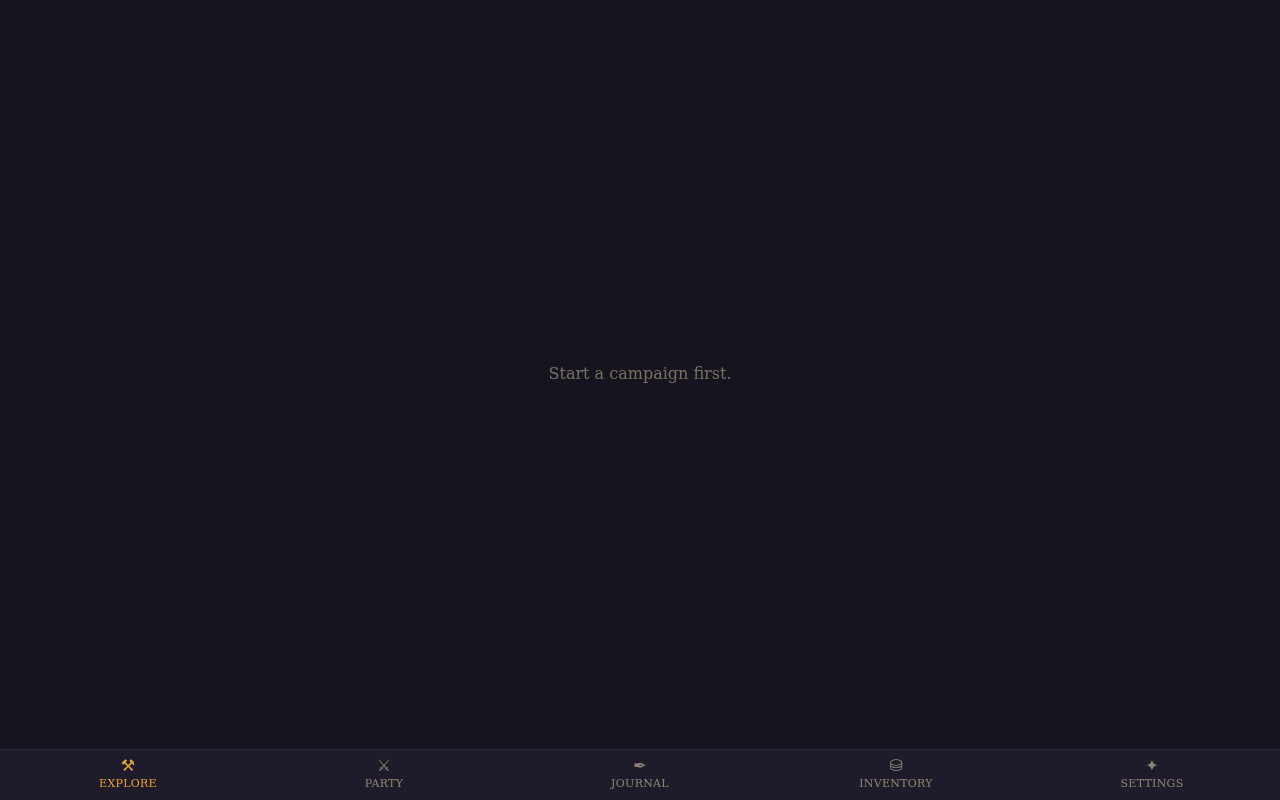
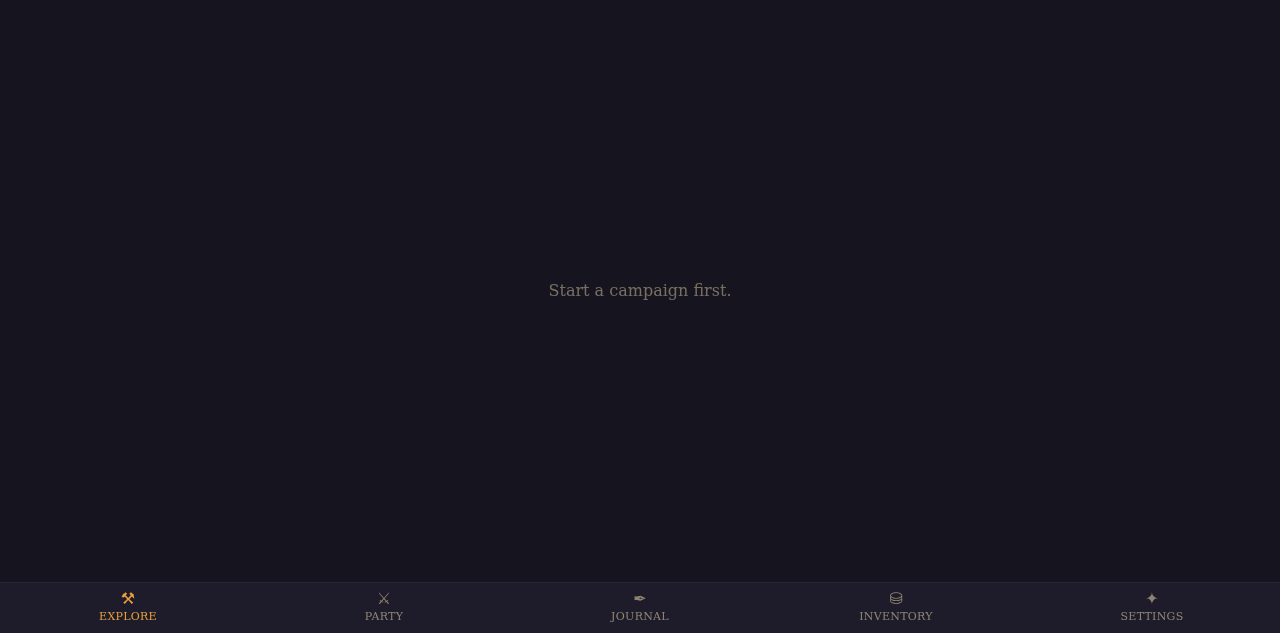
Graphics overhaul: textured dungeon map + class portraits
- Map: procedural SVG parchment/stone floor pattern (torch-lit current
  tile, dimmed corridors), carved two-layer walls, door leaf + swing-arc
  glyphs, content iconography on tiles (chest, monsters, fountain,
  temple, altar, statue, puzzle box), banner-token party marker
- Characters: class portrait icons on party cards and character sheets
- Icon art from game-icons.net (CC BY 3.0), attribution in
  src/assets/icons/ATTRIBUTION.md and README; map geometry/floors/doors
  are original procedural SVG (MIT). NOTE: rulebook art is copyrighted
  and is NOT used — licensed free assets instead, as the project's
  copyright policy requires
- 107 tests green; build clean; mobile+desktop screenshots refreshed

diff --git a/src/features/dungeon/DungeonScreen.tsx b/src/features/dungeon/DungeonScreen.tsx
@@ -12,6 +12,61 @@ import { ChoiceDialog } from './ChoiceDialog'
 import { DUNGEON_FEATURES, FEATURE_INFO } from '../../rulesets/expanded/features'
 import { QUEST_TABLE } from '../../rulesets/expanded/quests'
 
+/** Map iconography — game-icons.net fragments rendered inside the SVG. */
+import chestIcon from '../../assets/icons/chest.svg.frag?raw'
+import monstersIcon from '../../assets/icons/monsters.svg.frag?raw'
+import fountainIcon from '../../assets/icons/fountain.svg.frag?raw'
+import templeIcon from '../../assets/icons/temple.svg.frag?raw'
+import statueIcon from '../../assets/icons/statue.svg.frag?raw'
+import altarIcon from '../../assets/icons/altar.svg.frag?raw'
+import boxIcon from '../../assets/icons/box.svg.frag?raw'
+import skullIcon from '../../assets/icons/skull.svg.frag?raw'
+import partyIconFrag from '../../assets/icons/party.svg.frag?raw'
+import type { TileContent } from '../../engine/dungeon/generate'
+
+/** Strip the game-icons background square. */
+function cleanIcon(frag: string): string {
+  return frag.replace('<path d="M0 0h512v512H0z"/>', '')
+}
+
+/** Iconography lookup for a tile's content (FADEE p.152 kinds). */
+function contentIcon(content: TileContent | null): string | null {
+  if (!content) return null
+  switch (content.kind) {
+    case 'treasure':
+    case 'treasureTrapped':
+      return cleanIcon(chestIcon)
+    case 'vermin':
+    case 'minions':
+    case 'weird':
+    case 'boss':
+    case 'dragonLair':
+      return content.cleared ? null : cleanIcon(monstersIcon)
+    case 'specialFeature':
+      return [
+        cleanIcon(fountainIcon),
+        cleanIcon(templeIcon),
+        null, // armory — plain room
+        cleanIcon(altarIcon),
+        cleanIcon(statueIcon),
+        cleanIcon(boxIcon),
+      ][(content.specialFeatureRoll ?? 1) - 1] ?? null
+    default:
+      return null
+  }
+}
+
+/** Render a game-icons fragment centered at (x, y) map units. */
+function MapIcon({ frag, x, y, size = 0.62, className = 'fill-parchment/25' }: { frag: string; x: number; y: number; size?: number; className?: string }) {
+  return (
+    <g
+      transform={`translate(${x - size / 2}, ${y - size / 2}) scale(${size / 512})`}
+      className={className}
+      dangerouslySetInnerHTML={{ __html: frag }}
+    />
+  )
+}
+
 /**
  * Dungeon screen (PROJECT_SPEC §23): the interactive map is the centerpiece.
  * Tap an exit marker to explore (generates the next tile), drag to pan,
@@ -122,12 +177,30 @@ export default function DungeonScreen() {
           style={{ transform: `translate(${pan.x}px, ${pan.y}px) scale(${zoom})` }}
           preserveAspectRatio="xMidYMid meet"
         >
+          <defs>
+            {/* stone-floor pattern: warm parchment blocks with dark joints */}
+            <pattern id="stoneFloor" width="1" height="1" patternUnits="userSpaceOnUse">
+              <rect width="1" height="1" fill="#6b5f46" />
+              <rect width="1" height="1" fill="#544b38" opacity="0.35" />
+              <path d="M0 0.5h1M0.5 0v1" className="stroke-stone-950" strokeWidth={0.06} />
+            </pattern>
+            {/* torch-lit variant for the current tile */}
+            <pattern id="stoneFloorLit" width="1" height="1" patternUnits="userSpaceOnUse">
+              <rect width="1" height="1" fill="#8a7147" />
+              <rect width="1" height="1" fill="#a3742c" opacity="0.3" />
+              <path d="M0 0.5h1M0.5 0v1" className="stroke-stone-950" strokeWidth={0.06} />
+            </pattern>
+          </defs>
           <g transform={`translate(${2 - bounds.minCol}, ${2 - bounds.minRow})`}>
             {dungeon.tiles.map((t) => {
               const geo = tileGeometry(t)
               const isCurrent = t.id === tile.id
+              const icon = contentIcon(t.content)
+              const cx = t.cells.reduce((n, c) => n + c.col, 0) / Math.max(1, t.cells.length) + 0.5
+              const cy = t.cells.reduce((n, c) => n + c.row, 0) / Math.max(1, t.cells.length) + 0.5
               return (
                 <g key={t.id}>
+                  {/* floor: patterned stone; corridors darker than rooms */}
                   {t.cells.map((c, i) => (
                     <rect
                       key={i}
@@ -135,9 +208,11 @@ export default function DungeonScreen() {
                       y={c.row}
                       width={1}
                       height={1}
-                      className={isCurrent ? 'fill-torch/25' : 'fill-stone-800'}
+                      fill={isCurrent ? 'url(#stoneFloorLit)' : 'url(#stoneFloor)'}
+                      opacity={isCorridor ? 0.55 : 1}
                     />
                   ))}
+                  {/* walls: deep shadow base + pale carved edge */}
                   {geo.walls.map((w, i) => (
                     <line
                       key={i}
@@ -145,32 +220,70 @@ export default function DungeonScreen() {
                       y1={w.y1}
                       x2={w.x2}
                       y2={w.y2}
-                      className="stroke-stone-300"
-                      strokeWidth={0.06}
+                      className="stroke-stone-600"
+                      strokeWidth={0.14}
                     />
                   ))}
-                  {geo.doors.map((d, i) => (
-                    <rect
-                      key={i}
-                      x={d.x - (d.edge === 'N' || d.edge === 'S' ? 0.15 : 0.04)}
-                      y={d.y - (d.edge === 'N' || d.edge === 'S' ? 0.04 : 0.15)}
-                      width={d.edge === 'N' || d.edge === 'S' ? 0.3 : 0.08}
-                      height={d.edge === 'N' || d.edge === 'S' ? 0.08 : 0.3}
-                      className={d.door ? 'fill-torch' : 'fill-parchment/40'}
+                  {geo.walls.map((w, i) => (
+                    <line
+                      key={`hl${i}`}
+                      x1={w.x1}
+                      y1={w.y1}
+                      x2={w.x2}
+                      y2={w.y2}
+                      className="stroke-stone-200"
+                      strokeWidth={0.04}
                     />
                   ))}
+                  {/* doors: leaf + swing arc (FADEE-style dungeon glyphs) */}
+                  {geo.doors.map((d, i) => {
+                    const horiz = d.edge === 'N' || d.edge === 'S'
+                    return (
+                      <g key={`door${i}`}>
+                        <rect
+                          x={d.x - (horiz ? 0.16 : 0.04)}
+                          y={d.y - (horiz ? 0.04 : 0.16)}
+                          width={horiz ? 0.32 : 0.08}
+                          height={horiz ? 0.08 : 0.32}
+                          className={d.door ? 'fill-ember' : 'fill-parchment/50'}
+                        />
+                        {/* swing arc */}
+                        <path
+                          d={
+                            horiz
+                              ? `M ${d.x - 0.2} ${d.y} A 0.28 0.28 0 0 1 ${d.x - 0.2} ${d.y + (d.edge === 'N' ? -0.28 : 0.28)}`
+                              : `M ${d.x} ${d.y - 0.2} A 0.28 0.28 0 0 0 ${d.x + (d.edge === 'W' ? -0.28 : 0.28)} ${d.y - 0.2}`
+                          }
+                          className="stroke-parchment/25"
+                          fill="none"
+                          strokeWidth={0.03}
+                        />
+                      </g>
+                    )
+                  })}
+                  {/* content iconography */}
+                  {icon && <MapIcon frag={icon} x={cx} y={cy} />}
                 </g>
               )
             })}
-            {/* party marker */}
+            {/* party marker: banner token on a torch disc */}
             {tile.cells.length > 0 && (
-              <circle
-                cx={tile.cells[0].col + 0.5}
-                cy={tile.cells[0].row + 0.5}
-                r={0.28}
-                className="fill-torch stroke-stone-950"
-                strokeWidth={0.05}
-              />
+              <g>
+                <circle
+                  cx={tile.cells[0].col + 0.5}
+                  cy={tile.cells[0].row + 0.5}
+                  r={0.3}
+                  className="fill-torch stroke-stone-950"
+                  strokeWidth={0.05}
+                />
+                <MapIcon
+                  frag={cleanIcon(partyIconFrag)}
+                  x={tile.cells[0].col + 0.5}
+                  y={tile.cells[0].row + 0.5}
+                  size={0.34}
+                  className="fill-stone-950"
+                />
+              </g>
             )}
             {/* exit tap targets: glowing = unexplored (generate), dim = move through */}
             {tile.exits.map((e) => {

diff --git a/src/features/common/ClassIcon.tsx b/src/features/common/ClassIcon.tsx
@@ -1,0 +1,60 @@
+import warrior from '../../assets/icons/warrior.svg.frag?raw'
+import barbarian from '../../assets/icons/barbarian.svg.frag?raw'
+import dwarf from '../../assets/icons/dwarf.svg.frag?raw'
+import elf from '../../assets/icons/elf.svg.frag?raw'
+import halfling from '../../assets/icons/halfling.svg.frag?raw'
+import cleric from '../../assets/icons/cleric.svg.frag?raw'
+import rogue from '../../assets/icons/rogue.svg.frag?raw'
+import wizard from '../../assets/icons/wizard.svg.frag?raw'
+import party from '../../assets/icons/party.svg.frag?raw'
+
+/**
+ * Class portrait icons — art from game-icons.net (CC BY 3.0; see
+ * s../../assets/icons/ATTRIBUTION.md). Rendered with currentColor so the
+ * theme palette applies.
+ */
+const ICONS: Record<string, string> = {
+  warrior,
+  barbarian,
+  dwarf,
+  elf,
+  halfling,
+  cleric,
+  rogue,
+  wizard,
+  party,
+}
+
+/** Class colors from the dungeon palette (Tailwind classes). */
+export const CLASS_COLORS: Record<string, string> = {
+  warrior: 'text-torch',
+  barbarian: 'text-ember',
+  dwarf: 'text-ember/80',
+  elf: 'text-parchment',
+  halfling: 'text-torch/80',
+  cleric: 'text-parchment/90',
+  rogue: 'text-parchment/60',
+  wizard: 'text-torch/60',
+  party: 'text-torch',
+}
+
+/** Strip the black background square so the icon sits on any surface. */
+function clean(frag: string): string {
+  return frag.replace('<path d="M0 0h512v512H0z"/>', '')
+}
+
+export function ClassIcon({ classId, className = 'w-10 h-10' }: { classId: string; className?: string }) {
+  const frag = ICONS[classId] ?? ICONS.party
+  const cls = CLASS_COLORS[classId] ?? 'text-torch'
+  return (
+    <span className={`inline-block ${className} ${cls}`} aria-label={classId}>
+      <svg viewBox="0 0 512 512" width="100%" height="100%" fill="currentColor">
+        <g dangerouslySetInnerHTML={{ __html: clean(frag) }} />
+      </svg>
+    </span>
+  )
+}
+
+export function PartyIcon({ className = 'w-6 h-6' }: { className?: string }) {
+  return <ClassIcon classId="party" className={className} />
+}

diff --git a/src/features/party/CharacterSheet.tsx b/src/features/party/CharacterSheet.tsx
@@ -1,6 +1,7 @@
 import { Navigate, useNavigate, useParams } from 'react-router-dom'
 import { CORE_CLASSES } from '../../rulesets/expanded/coreClasses'
 import { useCampaignStore } from '../../state/campaignStore'
+import { ClassIcon } from '../common/ClassIcon'
 import { BASIC_SPELLS } from '../../rulesets/expanded/coreClasses'
 
 /** Detailed character sheet (PROJECT_SPEC §24): tap a party card to open. */
@@ -19,10 +20,15 @@ export default function CharacterSheet() {
       <button onClick={() => navigate('/party')} className="mb-2 self-start text-xs text-parchment/50">
         ← Party
       </button>
-      <h1 className="text-2xl text-torch">{character.name}</h1>
-      <p className="text-sm text-parchment/70">
-        {def.name} · Level {character.level} · {def.source}
-      </p>
+      <div className="flex items-center gap-3">
+        <ClassIcon classId={character.classId} className="w-14 h-14 shrink-0" />
+        <div>
+          <h1 className="text-2xl text-torch">{character.name}</h1>
+          <p className="text-sm text-parchment/70">
+            {def.name} · Level {character.level} · {def.source}
+          </p>
+        </div>
+      </div>
 
       <div className="mt-4 grid grid-cols-3 gap-2 text-center">
         <div className="rounded-lg bg-stone-800/60 p-3">

diff --git a/src/features/party/PartyScreen.tsx b/src/features/party/PartyScreen.tsx
@@ -2,6 +2,7 @@ import { useEffect, useState } from 'react'
 import { useNavigate } from 'react-router-dom'
 import { CORE_CLASSES } from '../../rulesets/expanded/coreClasses'
 import { useCampaignStore } from '../../state/campaignStore'
+import { ClassIcon } from '../common/ClassIcon'
 
 /** Party dashboard (PROJECT_SPEC §24): four character cards + create flow. */
 export default function PartyScreen() {
@@ -57,7 +58,8 @@ export default function PartyScreen() {
                   className="block w-full text-left active:opacity-80"
                 >
                   <div className="flex items-baseline justify-between">
-                    <span className="text-base text-parchment">
+                    <span className="flex items-center gap-2 text-base text-parchment">
+                      <ClassIcon classId={c.classId} className="w-7 h-7 shrink-0" />
                       {idx + 1}. {c.name}
                     </span>
                     <span className="text-xs text-parchment/50">

diff --git a/src/assets/icons/ATTRIBUTION.md b/src/assets/icons/ATTRIBUTION.md
@@ -1,0 +1,28 @@
+# Icon attribution
+
+Class portrait and map icons are from [game-icons.net](https://game-icons.net) 
+(one-file-per-icon repository: github.com/game-icons/icons), licensed **CC BY 3.0**. 
+Code in this repository remains MIT; this directory carries its own license.
+
+## Authors
+
+- `altar` — "lorc/stone-sphere.svg" by Lorc (CC BY 3.0)
+- `barbarian` — "delapouite/barbarian.svg" by Delapouite (CC BY 3.0)
+- `box` — "lorc/stone-sphere.svg" by Lorc (CC BY 3.0)
+- `chest` — "delapouite/chest.svg" by Delapouite (CC BY 3.0)
+- `cleric` — "lorc/prayer.svg" by Lorc (CC BY 3.0)
+- `dwarf` — "delapouite/dwarf-face.svg" by Delapouite (CC BY 3.0)
+- `elf` — "delapouite/woman-elf-face.svg" by Delapouite (CC BY 3.0)
+- `fountain` — "lorc/fountain.svg" by Lorc (CC BY 3.0)
+- `halfling` — "delapouite/hobbit-door.svg" by Delapouite (CC BY 3.0)
+- `monsters` — "lorc/stone-sphere.svg" by Lorc (CC BY 3.0)
+- `party` — "delapouite/knight-banner.svg" by Delapouite (CC BY 3.0)
+- `rogue` — "darkzaitzev/hooded-assassin.svg" by DarkZaitzev (CC BY 3.0)
+- `skull` — "badges/skull.svg" by Delapouite (badges pack) (CC BY 3.0)
+- `stairs` — "delapouite/stairs.svg" by Delapouite (CC BY 3.0)
+- `statue` — "delapouite/colombian-statue.svg" by Delapouite (CC BY 3.0)
+- `temple` — "delapouite/byzantin-temple.svg" by Delapouite (CC BY 3.0)
+- `warrior` — "cathelineau/swordman.svg" by Cathelineau (CC BY 3.0)
+- `wizard` — "delapouite/wizard-face.svg" by Delapouite (CC BY 3.0)
+
+Art may be modified (color/size via CSS). Attribution required — included in this file and the README.

diff --git a/docs/IMPLEMENTATION_STATUS.md b/docs/IMPLEMENTATION_STATUS.md
@@ -28,6 +28,12 @@
 
 - [ ] Release 0.5 scope: environments (caverns/grottoes tables + secret passages), quest types 3/4 (subdual capture, item retrieval), trinket magic-item effects, light/darkness, more XP systems
 
+## Completed Work (Graphics overhaul — map + characters)
+
+- [x] Map: patterned parchment/stone floors (torch-lit current tile, darker corridors), carved two-layer walls, door leaf + swing-arc glyphs, content iconography on tiles (chest/monsters/fountain/temple/altar/statue/puzzle box), party banner token
+- [x] Characters: class portrait icons on party cards and character sheets (game-icons.net CC BY 3.0, attributed in src/assets/icons/ATTRIBUTION.md); README credits icon art — book art NOT used (copyrighted; repo stays MIT for code, icons carry their own license)
+- [x] 107 tests green; build clean; screenshots refreshed in both environments
+
 ## Completed Work (Phase 5f — quests, epic rewards; Phase 5 COMPLETE)
 
 - [x] Lady in White quest flow (pp.153, 161-162): accept/decline dialog; refusal makes her ignore future appearances; Quest Table roll d6

diff --git a/README.md b/README.md
@@ -16,6 +16,10 @@ encounters, dice, combat math, treasure, XP — while the player keeps the meani
 | ![Party, mobile](docs/screenshots/party-mobile.png) | ![Campaign dashboard, desktop](docs/screenshots/campaign-desktop.png) |
 | | ![Journal, desktop](docs/screenshots/journal-desktop.png) |
 
+Icon art: [game-icons.net](https://game-icons.net) (CC BY 3.0) — see
+`src/assets/icons/ATTRIBUTION.md`. All map floors, walls and door glyphs are
+procedural SVG (original, MIT).
+
 ## Development
 
 ```bash
